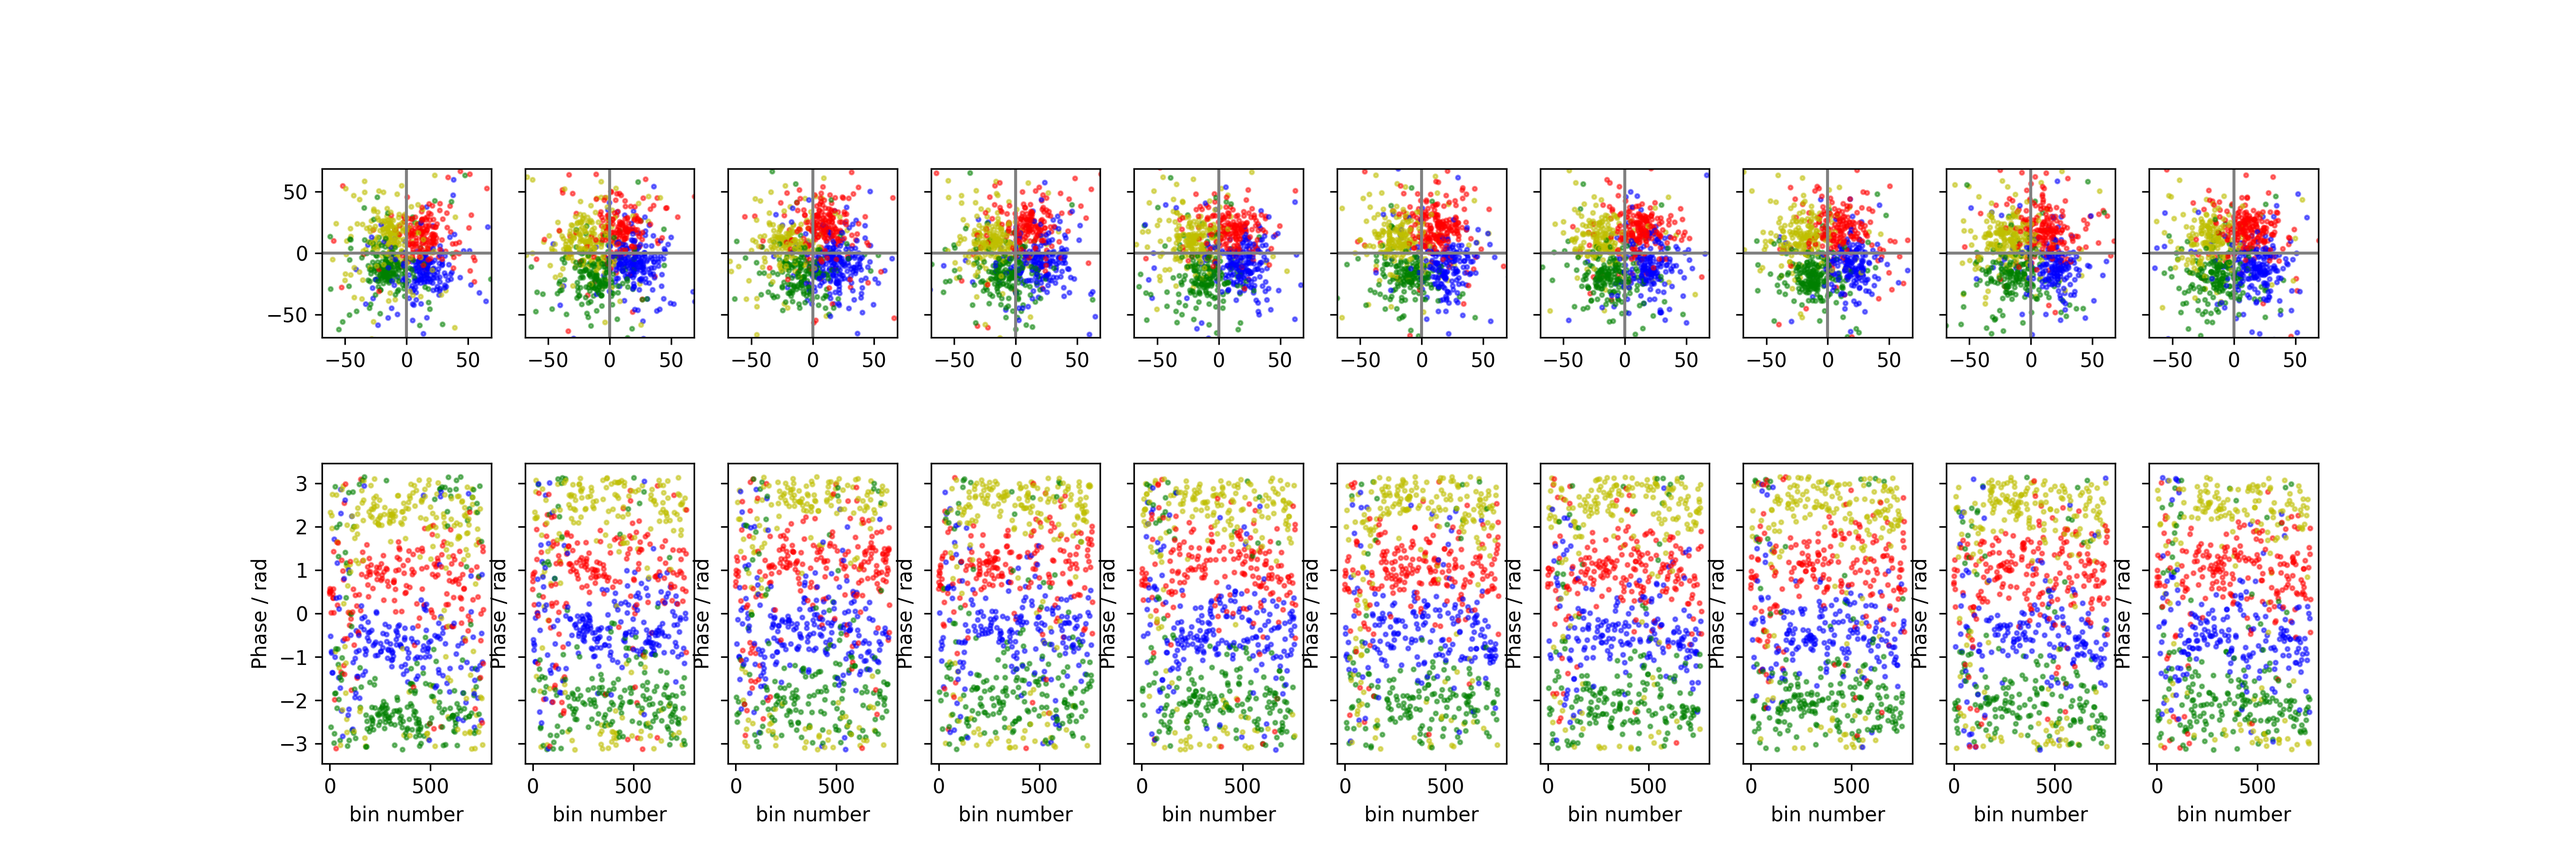
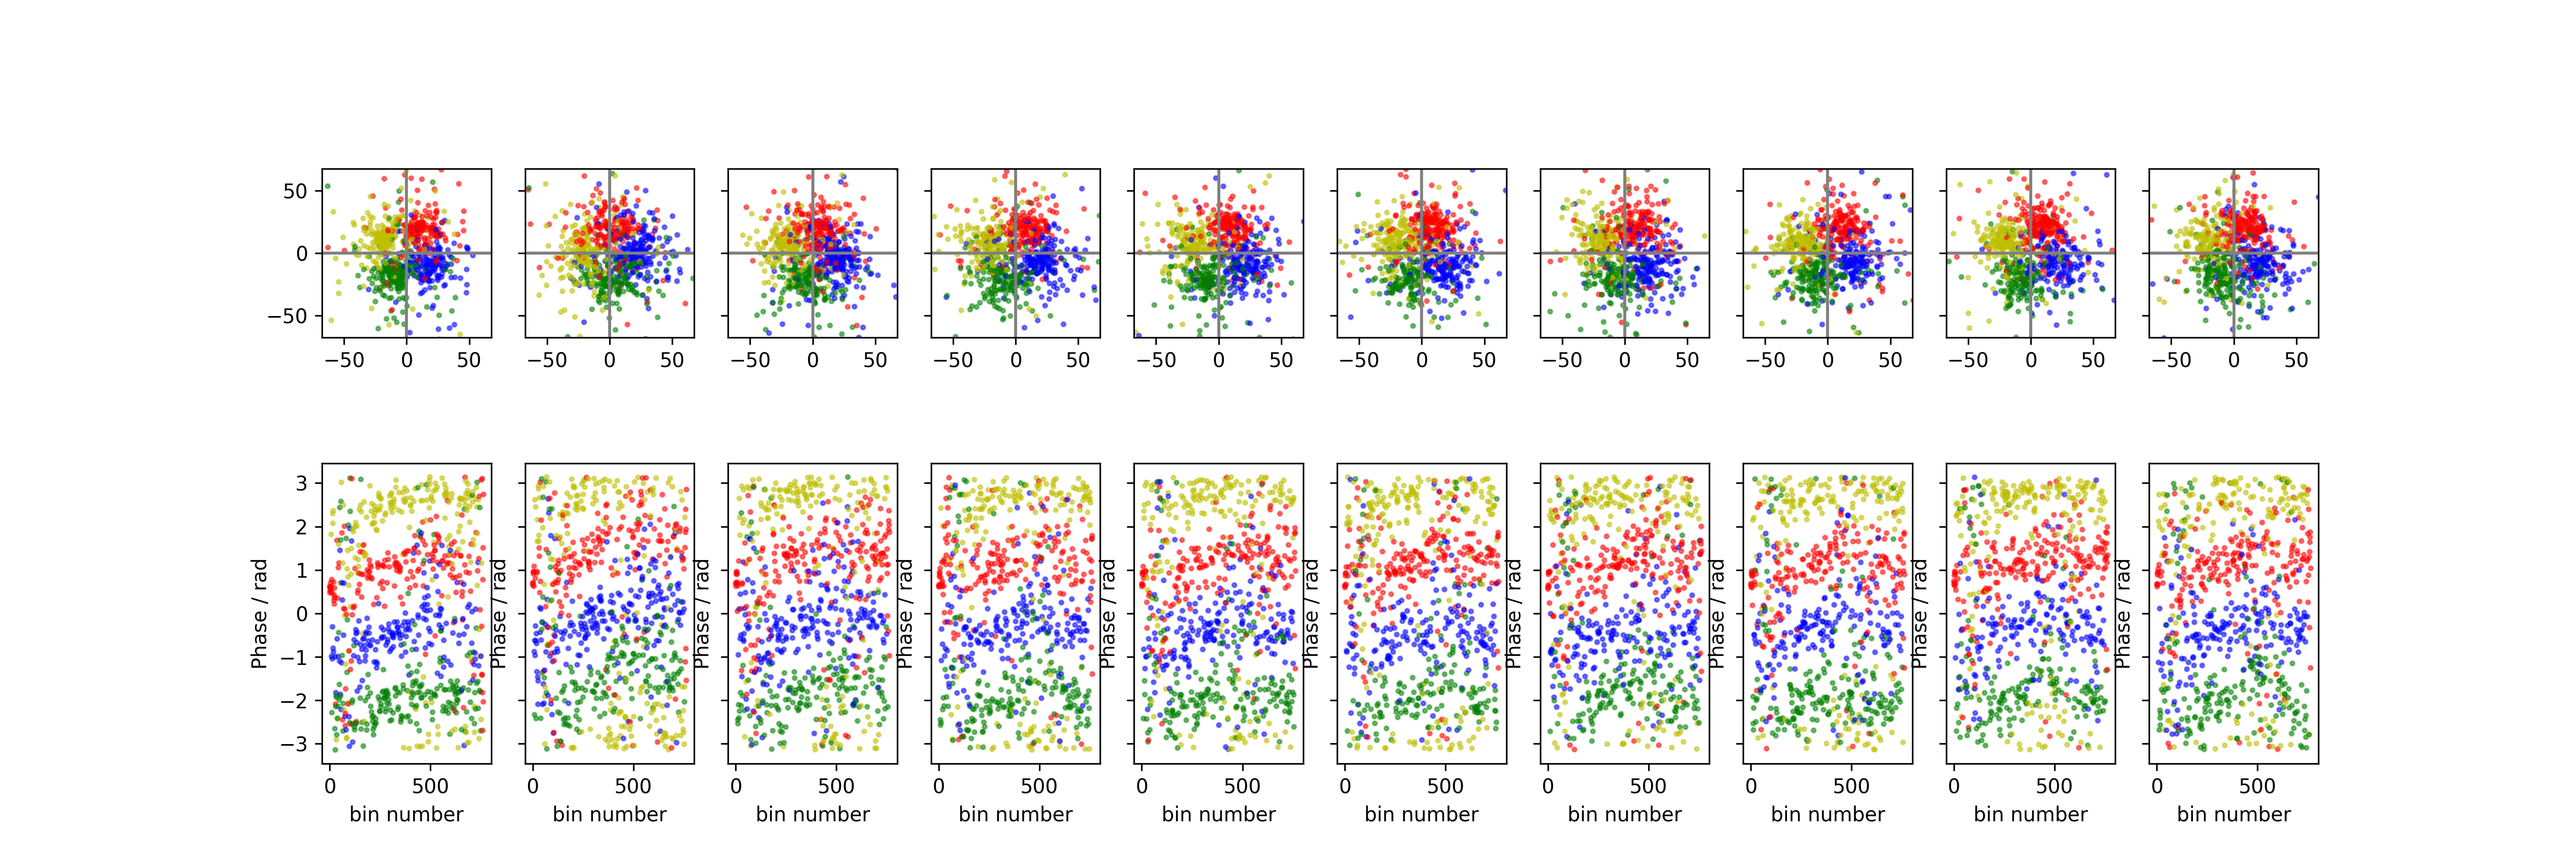
aa

Changed region(s): [[0.1244, 0.5289, 0.9022, 0.8711], [0.1244, 0.1867, 0.9022, 0.4044]]

diff --git a/decoder_test.py b/decoder_test.py
@@ -7,12 +7,20 @@ import matplotlib.pyplot as plt
 import decoder as d
 import encoder as e
 
-def get_fft_chirp(chirp):
+def get_fft_chirp(chirp,overlap = False):
     fft_chirp = np.zeros(block_length//2,dtype=np.complex_)
-    for i in range(chirp_factor):
-        partial_chirp = chirp[i*block_length:(i+1)*block_length]
-        fft_partial_chirp = np.fft.rfft(partial_chirp)[:-1]
-        fft_chirp += fft_partial_chirp
+    if overlap == True:
+        for i in range(chirp_factor* 2 - 1):
+            partial_chirp = chirp[i*block_length//2:(i+2)*block_length//2]
+            fft_partial_chirp = np.fft.rfft(partial_chirp)[:-1]
+            fft_chirp += fft_partial_chirp
+            #visualize.plot_fft(fft_chirp,fs)
+    else:
+        for i in range(chirp_factor):
+            partial_chirp = chirp[i*block_length:(i+1)*block_length]
+            fft_partial_chirp = np.fft.rfft(partial_chirp)[:-1]
+            fft_chirp += fft_partial_chirp
+
     return fft_chirp
 
 
@@ -32,13 +40,13 @@ N1 = 850
 ###
 seconds = 15
 chirp_factor = 16
-tracking_length = 4
+tracking_length = 20
 num_blocks = 100
 ###
 
 used_bins = N1 - N0
 chirp_length = block_length * chirp_factor
-used_bins_data = used_bins - tracking_length*2
+used_bins_data = used_bins - tracking_length
 
 
 record = False
@@ -72,7 +80,7 @@ print("done recording")
 ### find position ###
 len_sync_chirp = len(sync_chirp)
 correlation = scipy.signal.correlate(recording, sync)
-position = np.argmax(correlation) # +1 moves slopes upwards CCW
+position = np.argmax(correlation) + 1# +1 moves slopes upwards CCW
 
 # plt.plot(correlation)
 # plt.show()
@@ -114,8 +122,11 @@ while True:
         angle = np.exp(-1j*(m*f + c))
         data_fft[k] = data_fft[k] * angle
     
-    pilots = np.concatenate(   (  np.angle(data_fft[:tracking_length]) , np.angle(data_fft[-tracking_length:])  )   )
-    freqs = np.concatenate ( ( list(range(N0,N0+tracking_length)) , list(range(N1-tracking_length,N1)) ) )
+    pilot_indices = [int(x) for x in np.linspace(0,len(data_fft),tracking_length,endpoint=False)]
+    pilots = [data_fft[i] for i in pilot_indices]
+    freqs = pilot_indices + N0
+    #pilots = np.concatenate(   (  np.angle(data_fft[:tracking_length]) , np.angle(data_fft[-tracking_length:])  )   )
+    #freqs = np.concatenate ( ( list(range(N0,N0+tracking_length)) , list(range(N1-tracking_length,N1)) ) )
     m_new, c_new = np.polyfit(freqs,pilots,1)
 
     const = 0.5
@@ -129,7 +140,7 @@ while True:
 
     if block_index != 0:
         data_fft = data_fft * np.exp(1j*np.pi/4)
-    print(m,c)
+    #print(m,c)
     m += m_new
     c += c_new
     blocks.append(data_fft)
@@ -140,7 +151,7 @@ while True:
 
 ### decode signal ###
 bytes_list, r_bits = d.blocks_to_bytes(blocks,4)
-t_bits = e.random_binary(used_bins_data*2*num_blocks)
+t_bits = e.random_binary(used_bins_data*bits_per_value*num_blocks)
 t_bits = e.add_tracking(t_bits)
 
 

diff --git a/encoder.py b/encoder.py
@@ -24,7 +24,7 @@ N0 = 85 # abt 1000hz      (1000hz  / 48000hz) * 4096
 N1 = 850 # abt 10000 hz   (10000hz / 48000hz) * 4096
 
 num_blocks = 100
-tracking_length = 4
+tracking_length = 20
 
 n=12
 d_v = 3
@@ -33,7 +33,7 @@ d_c = 6
 chirp_factor = 16
 chirp_length = block_length * chirp_factor
 used_bins = N1 - N0
-used_bins_data = used_bins - tracking_length*2
+used_bins_data = used_bins - tracking_length
 M = 2**bits_per_value
 
 
@@ -102,11 +102,28 @@ def blocks_fft_to_signal(blocks_fft):
     
     return transmission
 
-def add_tracking(binary):
+def add_tracking(binary,tracking_length=tracking_length):
     output = ""
-    for i in range(num_blocks):
-        out = tracking_length*bits_per_value*"0"+ binary[i*bits_per_value*used_bins_data:(i+1)*bits_per_value*used_bins_data] + tracking_length*bits_per_value*"0"
-        output += out
+    # for i in range(num_blocks):
+    #     out = tracking_length*bits_per_value*"0"+ binary[i*bits_per_value*used_bins_data:(i+1)*bits_per_value*used_bins_data] + tracking_length*bits_per_value*"0"
+    #     output += out
+    
+    bl = used_bins_data*bits_per_value
+    spacing = bl//tracking_length
+    for b in [binary[i*bl:(i+1)*bl] for i in range(num_blocks)]:
+        for s in range(tracking_length):
+            try:
+                chunk = b[s*spacing:(s+1)*spacing]
+            except:
+                chunk = b[s*spacing:]
+            chunk = "00" + chunk
+            output+= chunk
+    for i in [int(x) for x in np.linspace(0,len(output),tracking_length*num_blocks,endpoint=False)]:
+        if i != "00":
+            print("ERROR",i,output[i:i+2])
+
+
+    
     return output 
 
 

diff --git a/visualize.py b/visualize.py
@@ -9,7 +9,7 @@ def plot_channel(channel):
     plt.plot(channel)
     plt.show()
 
-def plot_fft(fft,fs,colours,title=""):
+def plot_fft(fft,fs,colours='b',title=""):
     freqs = np.fft.fftfreq(len(fft),1/fs)
     fig, ax = plt.subplots(2)
     ax[0].title.set_text('Frequency Domain')
@@ -29,7 +29,7 @@ def plot_constellation(fft,colours,title=""):
     l=abs(np.max(fft))*1.2
     r = np.real(fft)
     i = np.imag(fft)
-    plt.scatter(r,i,s=6,c=colours,alpha=0.5)
+    plt.scatter(r,i,s=2,c=colours,alpha=0.5)
     plt.axhline(0, color='gray')
     plt.axvline(0, color='gray')
     plt.axis('scaled')
